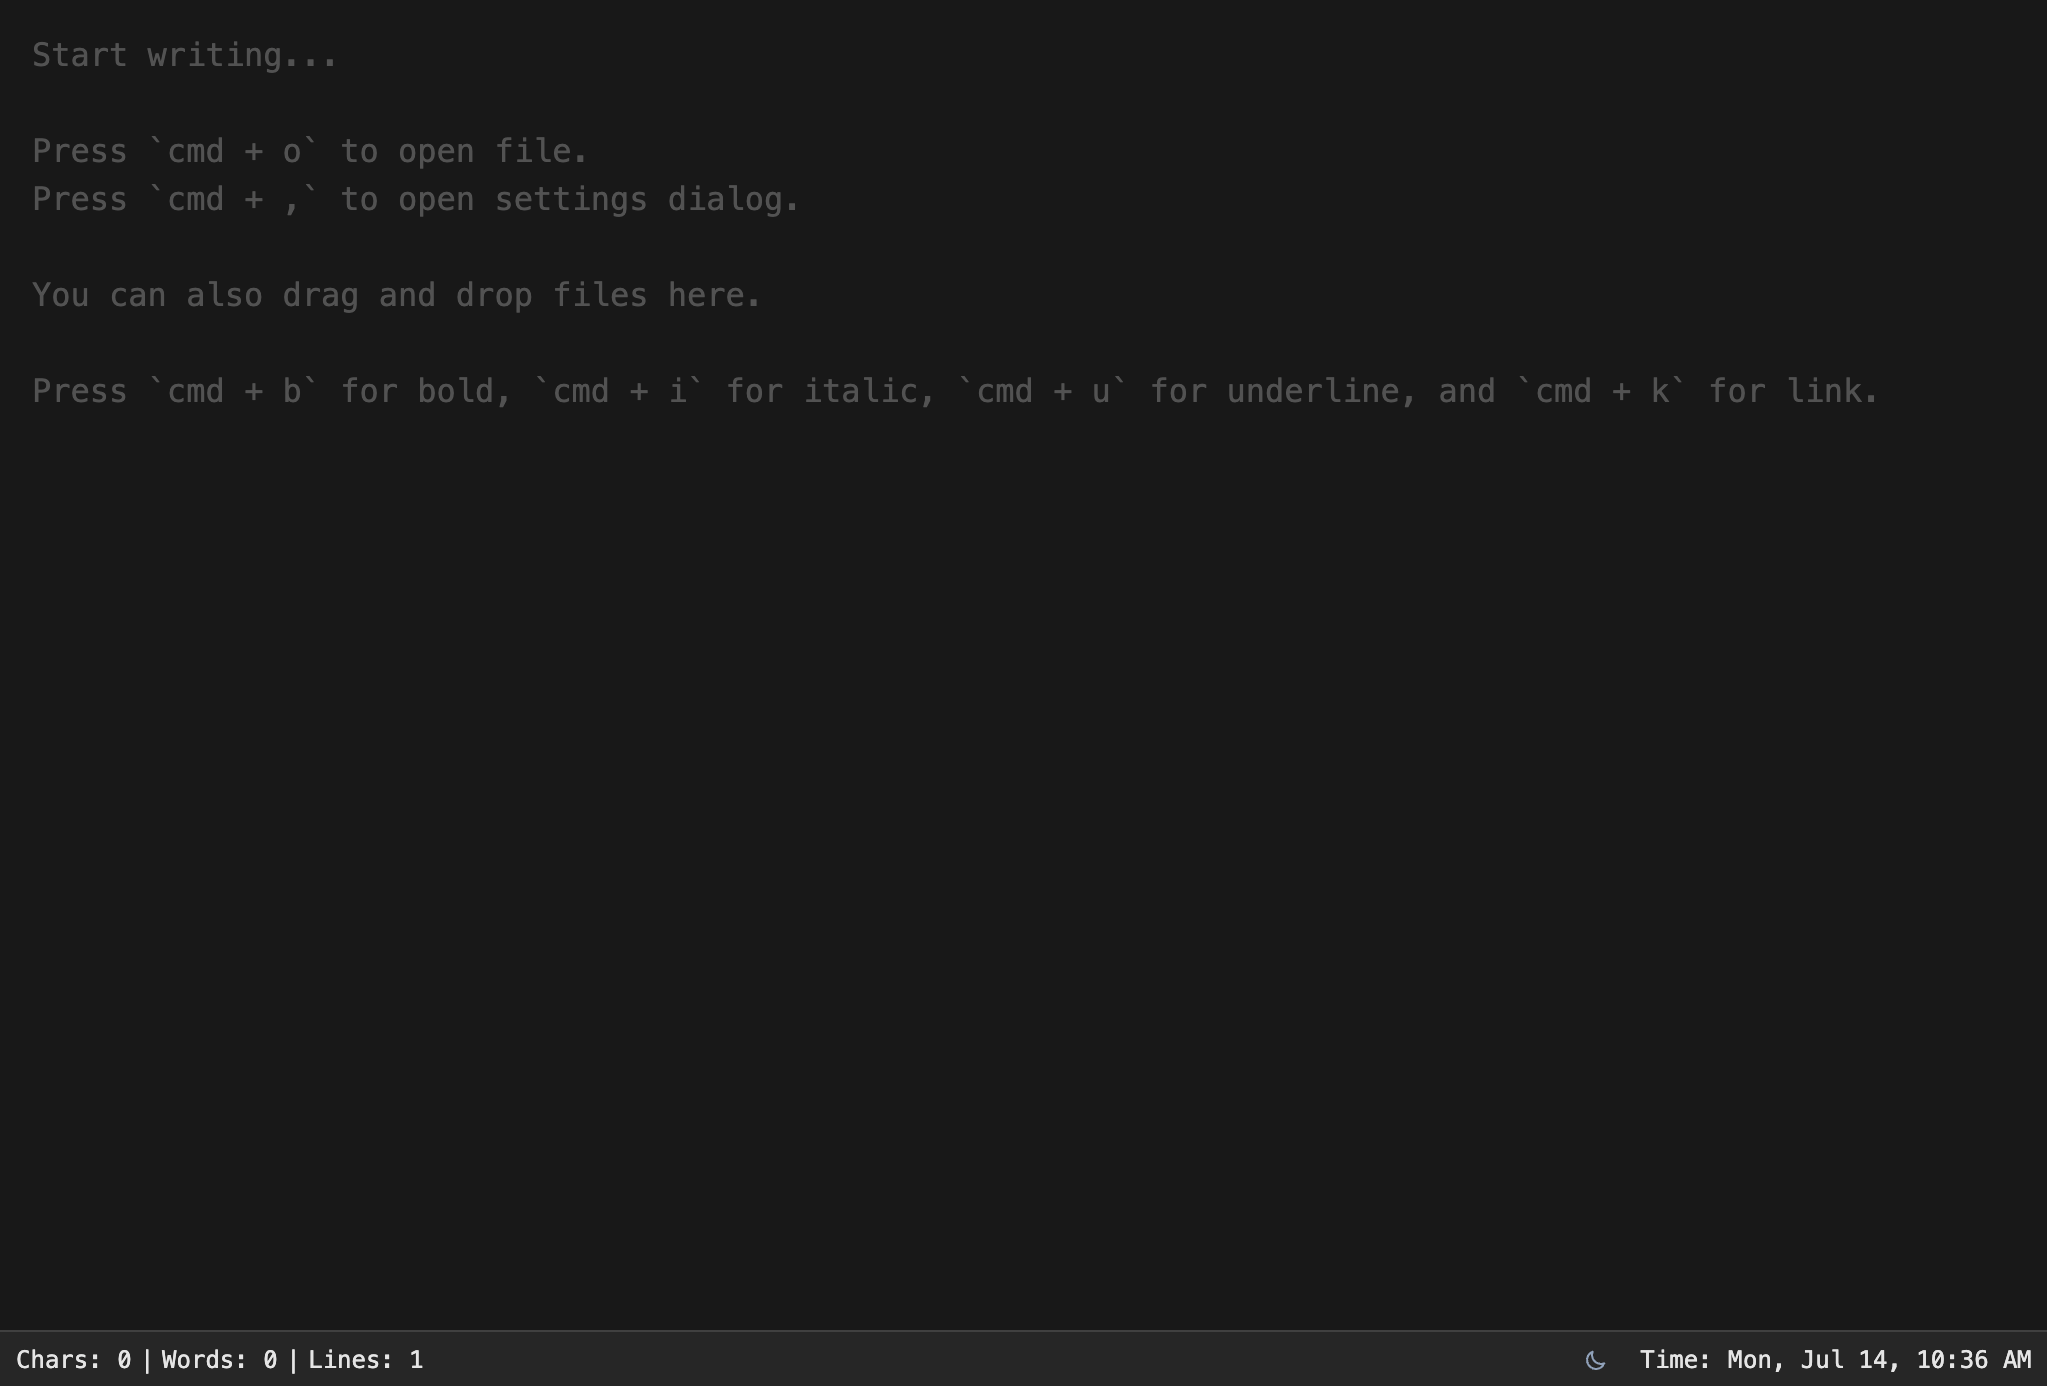
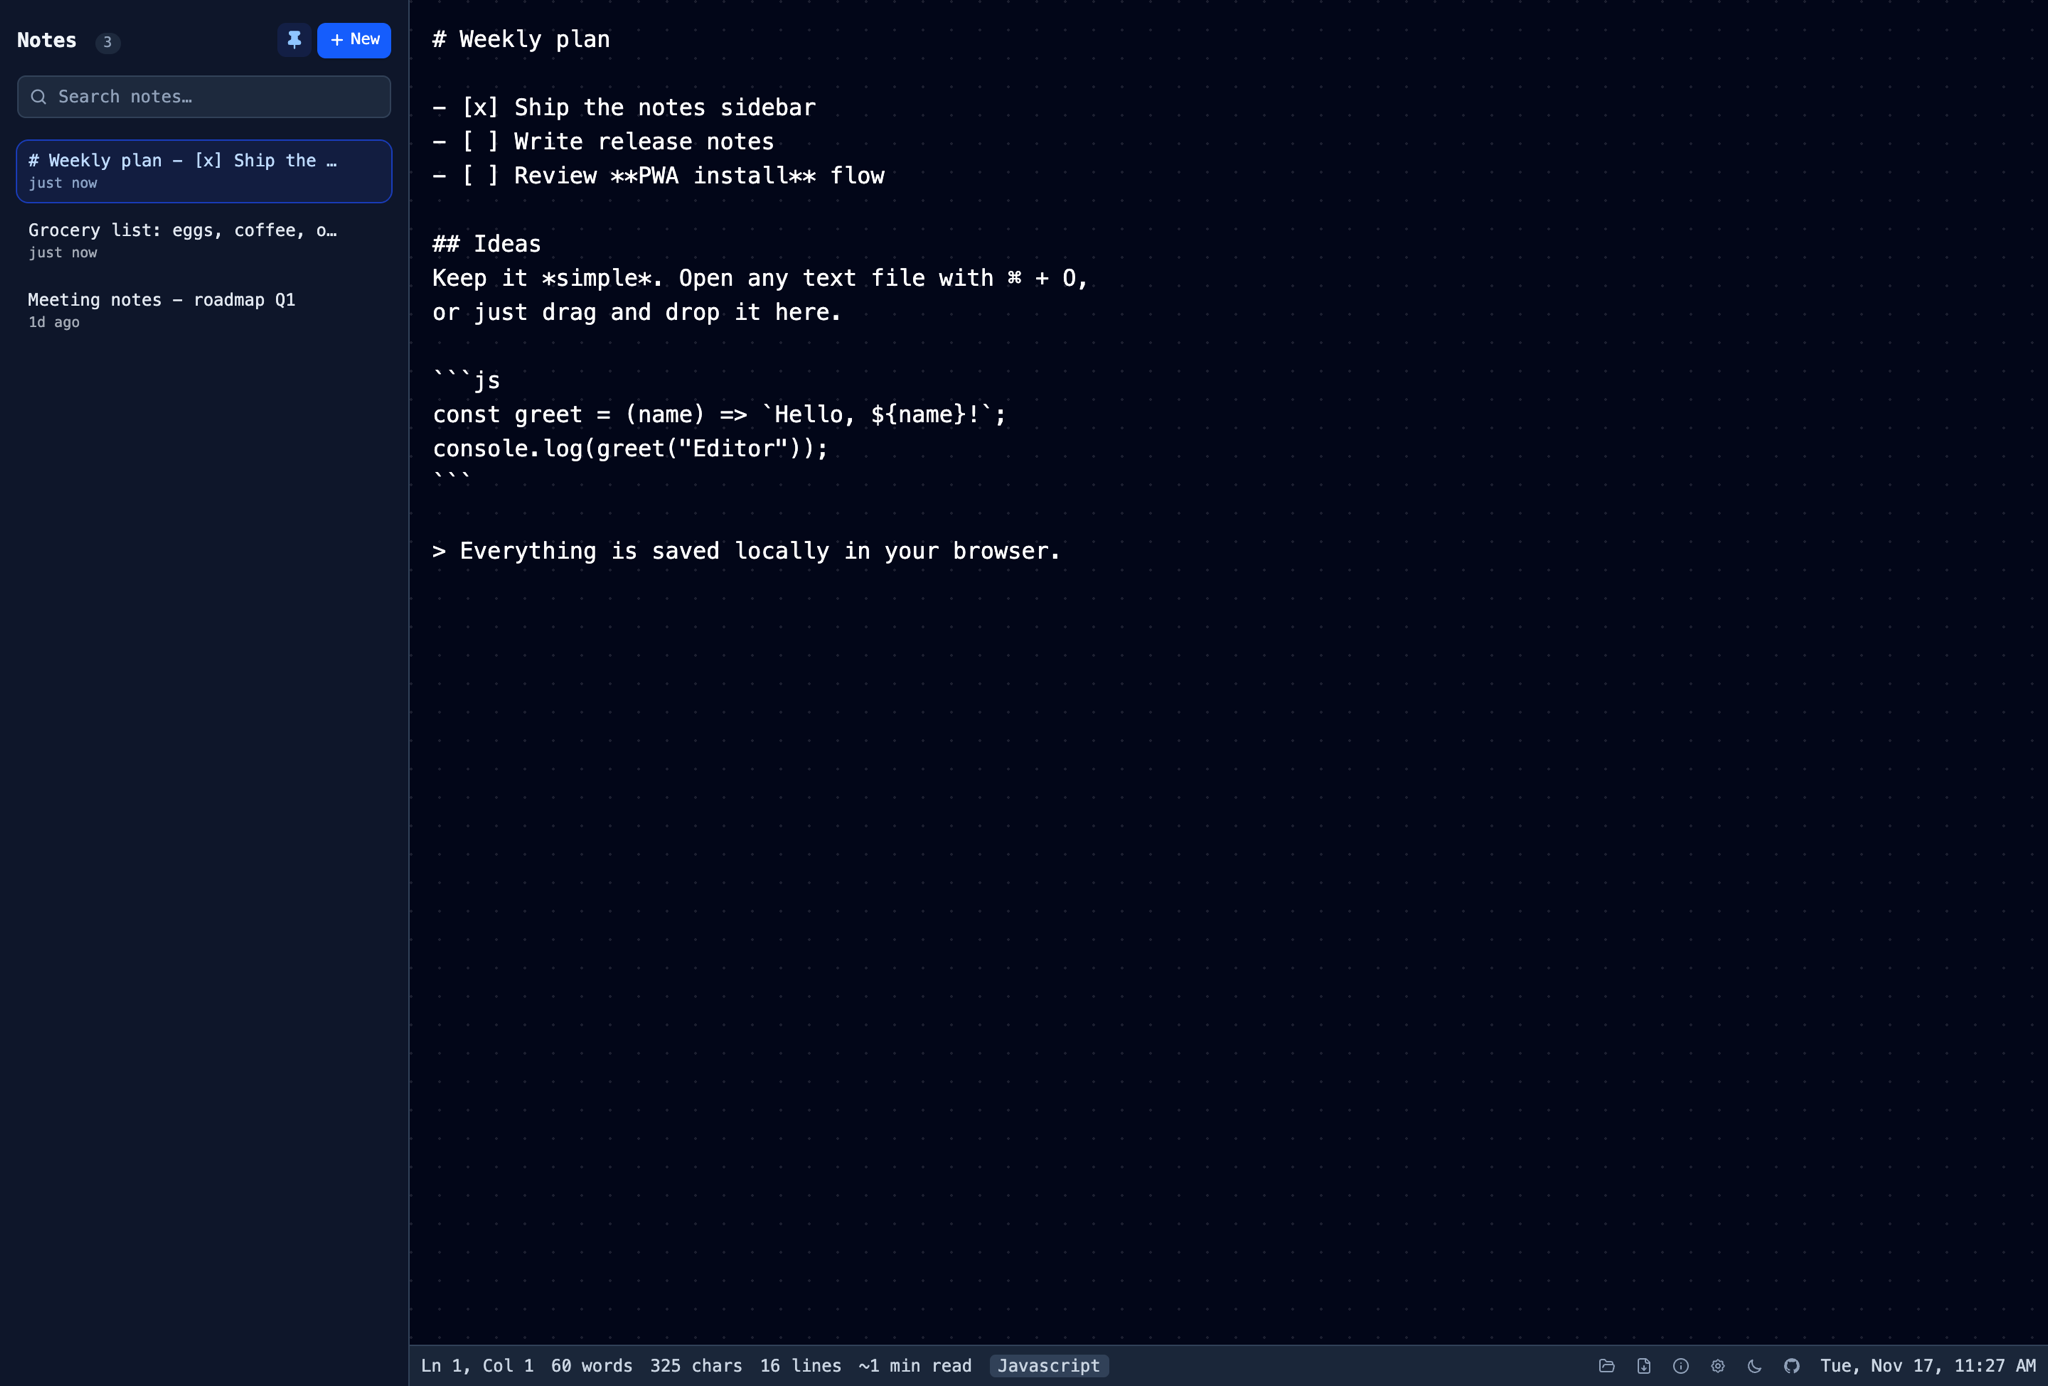
chore: update README and SEO metadata; enhance PWA support and file handling

diff --git a/index.html b/index.html
@@ -4,18 +4,22 @@
         <meta charset="UTF-8" />
         <link rel="icon" type="image/svg+xml" href="/icon.svg" />
         <meta name="viewport" content="width=device-width, initial-scale=1.0" />
-        <title>Editor</title>
-        <!-- SEO tags -->
-        <meta name="description" content="A simple text editor to edit quickly on the web..." />
+        <title>Editor – Fast, Distraction-Free Text Editor in Your Browser</title>
+
+        <!-- Primary SEO -->
+        <meta
+            name="description"
+            content="A fast, distraction-free text editor in your browser. Keep multiple notes, open or drag & drop text files, use keyboard shortcuts, and work offline. Free, no sign-up, saved locally."
+        />
         <meta
             name="keywords"
-            content="editor, text editor, web editor, simple editor, online text editor, notepad, markdown editor"
+            content="online text editor, notepad online, browser notepad, markdown editor, plain text editor, offline notes, PWA text editor, distraction-free writing, code snippet editor"
         />
         <meta name="author" content="Saiful Alam Rakib" />
-        <meta name="robots" content="index, follow" />
-        <meta name="language" content="en" />
-        <meta name="theme-color" content="#ffffff" />
-        <meta name="theme-color" content="#0f172a" media="(prefers-color-scheme: dark)" />
+        <meta name="robots" content="index, follow, max-image-preview:large" />
+        <meta name="theme-color" content="#f1f5f9" media="(prefers-color-scheme: light)" />
+        <meta name="theme-color" content="#020617" media="(prefers-color-scheme: dark)" />
+        <link rel="canonical" href="https://text.msar.me/" />
 
         <!-- PWA Meta Tags -->
         <meta name="mobile-web-app-capable" content="yes" />
@@ -28,20 +32,47 @@
 
         <!-- Open Graph / Facebook -->
         <meta property="og:type" content="website" />
-        <meta property="og:title" content="Editor - Simple Web Text Editor" />
-        <meta property="og:description" content="A simple text editor to edit quickly on the web..." />
-        <meta property="og:url" content="https://text.msar.me" />
-        <meta property="og:image" content="https://text.msar.me/light.png" />
         <meta property="og:site_name" content="Editor" />
+        <meta property="og:locale" content="en_US" />
+        <meta property="og:url" content="https://text.msar.me/" />
+        <meta property="og:title" content="Editor – Fast, Distraction-Free Text Editor in Your Browser" />
+        <meta
+            property="og:description"
+            content="Keep notes, open or drag & drop text files, and write offline. Free, no sign-up, everything saved locally."
+        />
+        <meta property="og:image" content="https://text.msar.me/og-image.png" />
+        <meta property="og:image:type" content="image/png" />
+        <meta property="og:image:width" content="1200" />
+        <meta property="og:image:height" content="630" />
+        <meta property="og:image:alt" content="Editor – a simple text editor shown in light and dark themes" />
 
         <!-- Twitter -->
         <meta name="twitter:card" content="summary_large_image" />
-        <meta name="twitter:title" content="Editor - Simple Web Text Editor" />
-        <meta name="twitter:description" content="A simple text editor to edit quickly on the web..." />
-        <meta name="twitter:image" content="https://text.msar.me/light.png" />
+        <meta name="twitter:title" content="Editor – Fast, Distraction-Free Text Editor in Your Browser" />
+        <meta
+            name="twitter:description"
+            content="Keep notes, open or drag & drop text files, and write offline. Free, no sign-up, everything saved locally."
+        />
+        <meta name="twitter:image" content="https://text.msar.me/og-image.png" />
+        <meta name="twitter:image:alt" content="Editor – a simple text editor shown in light and dark themes" />
 
-        <!-- Additional SEO -->
-        <link rel="canonical" href="https://text.msar.me" />
+        <!-- Structured data -->
+        <script type="application/ld+json">
+            {
+                "@context": "https://schema.org",
+                "@type": "WebApplication",
+                "name": "Editor",
+                "url": "https://text.msar.me/",
+                "description": "A fast, distraction-free text editor in your browser with notes, file drag & drop, keyboard shortcuts and offline support.",
+                "applicationCategory": "UtilitiesApplication",
+                "operatingSystem": "Any",
+                "browserRequirements": "Requires JavaScript",
+                "image": "https://text.msar.me/og-image.png",
+                "screenshot": ["https://text.msar.me/light.png", "https://text.msar.me/dark.png"],
+                "offers": { "@type": "Offer", "price": "0", "priceCurrency": "USD" },
+                "author": { "@type": "Person", "name": "Saiful Alam Rakib", "url": "https://github.com/4msar" }
+            }
+        </script>
 
         <!-- PWA Icons -->
         <link rel="apple-touch-icon" href="/icon.svg" sizes="180x180" />

diff --git a/vite.config.ts b/vite.config.ts
@@ -10,11 +10,11 @@ export default defineConfig({
         tailwindcss(),
         VitePWA({
             registerType: "prompt",
-            includeAssets: ["icon.svg", "dark.png", "light.png", "browserconfig.xml"],
+            includeAssets: ["icon.svg", "dark.png", "light.png", "og-image.png", "browserconfig.xml"],
             manifest: {
                 name: "Editor - Simple Web Text Editor",
                 short_name: "Editor",
-                description: "A simple text editor to edit quickly on the web",
+                description: "A fast, distraction-free text editor in your browser with notes, file drag & drop, shortcuts and offline support.",
                 theme_color: "#ffffff",
                 background_color: "#ffffff",
                 display: "standalone",
@@ -49,14 +49,14 @@ export default defineConfig({
                 screenshots: [
                     {
                         src: "light.png",
-                        sizes: "2047x1386",
+                        sizes: "2048x1386",
                         type: "image/png",
                         form_factor: "wide",
                         label: "Light theme",
                     },
                     {
                         src: "dark.png",
-                        sizes: "2047x1386",
+                        sizes: "2048x1386",
                         type: "image/png",
                         form_factor: "wide",
                         label: "Dark theme",

diff --git a/src/components/Editor.vue b/src/components/Editor.vue
@@ -1,10 +1,8 @@
 <script setup lang="ts">
 import { computed, ref, watch } from "vue";
 import { AnimatePresence, motion, useAnimate } from "motion-v";
-import { detectLanguage, getLanguageClass } from "../lib/language-detection";
 import { handleEditorKeydown } from "../lib/editor-commands";
 import { useSettings } from "../lib/use-settings";
-import { cn } from "../lib/utils";
 import { placeholderTexts } from "../lib/data";
 import Logo from "./Logo.vue";
 
@@ -23,7 +21,6 @@ const inputRef = ref<HTMLTextAreaElement | null>(null);
 const settings = useSettings();
 const [scope, animate] = useAnimate();
 
-const languageClass = computed(() => getLanguageClass(detectLanguage(value.value) ?? "plaintext"));
 const isBox = computed(() => settings.value.ui === "box");
 
 const emitCursor = () => {
@@ -85,7 +82,6 @@ defineExpose({ focus: () => inputRef.value?.focus() });
                 spellcheck="true"
                 aria-label="Editor"
                 class="editor bg-editor size-full resize-none p-4 pb-9 font-mono text-base text-black caret-blue-600 outline-none selection:bg-blue-500/25 placeholder:text-slate-400 dark:text-white dark:caret-blue-400 dark:placeholder:text-slate-600"
-                :class="cn(languageClass)"
                 :placeholder="placeholderTexts.join('\n')"
                 :style="{ fontSize: `${settings.fontSize}px`, tabSize: 4 }"
                 @keydown="handleEditorKeydown"

diff --git a/src/components/PWAInstall.vue b/src/components/PWAInstall.vue
@@ -28,8 +28,10 @@ const checkIfInstalled = () => {
     }
 };
 
+// Don't call e.preventDefault(): it only suppresses the mobile mini-infobar
+// (our button is desktop-only) and triggers a Chrome "Banner not shown" warning.
+// The saved event can still be prompted later from the install button.
 const handleBeforeInstallPrompt = (e: Event) => {
-    e.preventDefault();
     deferredPrompt.value = e;
     isInstallable.value = true;
 };
@@ -53,12 +55,16 @@ onUnmounted(() => {
 });
 
 const installPWA = async () => {
-    if (deferredPrompt.value) {
-        (deferredPrompt.value as any).prompt();
+    if (!deferredPrompt.value) return;
+    try {
+        await (deferredPrompt.value as any).prompt();
         const { outcome } = await (deferredPrompt.value as any).userChoice;
         if (outcome === 'accepted') {
             toast.success('Installing app…');
         }
+    } catch {
+        // Prompt already used (e.g. via the browser's own install UI)
+    } finally {
         deferredPrompt.value = null;
         isInstallable.value = false;
     }

diff --git a/README.md b/README.md
@@ -1,25 +1,28 @@
 # Text Editor
 
-A clean, simple, and powerful web-based text editor built with Vue 3, TypeScript, and Tailwind CSS. Perfect for quick note-taking, writing, and editing various file formats directly in your browser.
+A fast, distraction-free text editor that runs in your browser. Keep multiple notes, open or drag & drop text files, and keep writing offline – free, no sign-up, and everything stays on your device. Built with Vue 3, TypeScript and Tailwind CSS.
+
+![Editor – light and dark themes](./public/og-image.png)
 
 ## ✨ Features
 
-- **📝 Rich Text Editing**: Clean, distraction-free writing experience with a monospace font
-- **🌓 Dark/Light Mode**: Toggle between themes or use system default
-- **📊 Real-time Stats**: Live character, word, and line counting
-- **📁 File Support**: Drag & drop files or open with keyboard shortcuts
-- **⌨ Keyboard Shortcuts**: Efficient text formatting and file operations
-- **🎨 Syntax Detection**: Automatic language detection for code highlighting
-- **💾 Auto-save**: Content automatically persists in local storage
-- **⚙ Customizable**: Adjustable font size and theme preferences
-- **📱 Responsive**: Works great on desktop and mobile devices
+- **📝 Distraction-free writing** – a clean, full-screen monospace editor that opens instantly
+- **🗂 Multiple notes** – a searchable notes sidebar (pin it open or toggle it), keeping up to 50 recent notes
+- **💾 Auto-save** – every note is saved in your browser's local storage; nothing leaves your device
+- **📁 Open any text file** – browse with a shortcut or drag & drop a file onto the editor, and download a note back as a file
+- **⌨ Keyboard shortcuts** – formatting, case changes, indent/outdent and note management without touching the mouse
+- **📊 Live status bar** – cursor position, words, characters, lines, reading time and the detected language of code blocks
+- **🌓 Light, dark and system themes** – with a smooth reveal animation when you switch
+- **⚙ Customizable** – font size, layout (Auto, Box or Full width), logo visibility and new-note behavior
+- **📱 Installable PWA** – install it like a desktop/mobile app and keep writing offline
 
 ## 🚀 Demo
 
 **Live Demo**: [https://text.msar.me](https://text.msar.me)
 
-![Light Mode Demo](./public/light.png)
-![Dark Mode Demo](./public/dark.png)
+| Light | Dark |
+| --- | --- |
+| ![Light theme](./public/light.png) | ![Dark theme](./public/dark.png) |
 
 ## 🔧 Installation
 
@@ -47,36 +50,47 @@ yarn dev
 
 ## 📖 Usage
 
-### Basic Editing
-- Start typing in the main text area
-- Your content is automatically saved to local storage
-- Use the status bar to monitor character, word, and line counts
+### Notes
+- Start typing – your note is saved automatically
+- Press `Alt+N` (`⌥N` on Mac) to start a new note and `Alt+L` (`⌥L`) to show or hide the notes list
+- Search notes from the sidebar, or pin the sidebar to keep it open
 
-### File Operations
-- **Open File**: Press `Ctrl+O` (or `Cmd+O` on Mac) to browse and open a file
-- **Drag & Drop**: Simply drag a file from your computer into the editor
-- **Supported Formats**: Text files, Markdown, JSON, JavaScript, TypeScript, HTML, CSS, Vue, and many more
+### Files
+- **Open a file**: `Ctrl+O` / `⌘O`, or drag & drop a file onto the editor (up to 4 MB)
+- **Download a note**: `Ctrl+S` / `⌘S`
+- **Supported formats**: plain text, Markdown, JSON, YAML, source code and many more (see below)
 
 ### Keyboard Shortcuts
-- `Ctrl+O` / `Cmd+O` - Open file
-- `Ctrl+,` / `Cmd+,` - Open settings
-- `Ctrl+B` / `Cmd+B` - Bold text
-- `Ctrl+I` / `Cmd+I` - Italic text
-- `Ctrl+U` / `Cmd+U` - Underline text
-- `Ctrl+K` / `Cmd+K` - Insert link
+
+| Action | Windows / Linux | macOS |
+| --- | --- | --- |
+| Open file | `Ctrl+O` | `⌘O` |
+| Download note | `Ctrl+S` | `⌘S` |
+| Settings | `Ctrl+,` | `⌘,` |
+| Help (all shortcuts) | `Ctrl+/` | `⌘/` |
+| Close dialog / panel | `Esc` | `Esc` |
+| New note | `Alt+N` | `⌥N` |
+| Toggle notes list | `Alt+L` | `⌥L` |
+| Bold / Italic / Underline | `Ctrl+B` / `Ctrl+I` / `Ctrl+U` | `⌘B` / `⌘I` / `⌘U` |
+| Insert link | `Ctrl+K` | `⌘K` |
+| Lowercase / Uppercase selection | `Ctrl+Shift+L` / `Ctrl+Shift+U` | `⌘⇧L` / `⌘⇧U` |
+| Indent / Outdent | `Tab` / `Shift+Tab` | `Tab` / `⇧Tab` |
 
 ### Settings
-Press `Ctrl+,` (or `Cmd+,` on Mac) to access settings:
-- **Theme**: Choose between Light, Dark, or System Default
-- **Font Size**: Adjust the editor font size for comfortable reading
+Press `Ctrl+,` (`⌘,` on Mac) to open settings:
+- **Theme** – Light, Dark or System
+- **Layout** – Auto, Box or Full width
+- **Show logo** – show or hide the logo in Box layout
+- **New note behavior** – reopen the last note or start fresh
+- **Font size** – make the editor text larger or smaller
 
 ## 🎯 Supported File Types
 
 The editor supports a wide range of file formats including:
 
-**Text & Documentation**: `.txt`, `.md`, `.csv`, `.log`  
+**Text & Documentation**: `.txt`, `.md`, `.csv`, `.log`, `.tex`  
 **Web Technologies**: `.html`, `.css`, `.scss`, `.sass`, `.less`, `.js`, `.ts`, `.jsx`, `.tsx`, `.vue`  
-**Programming Languages**: `.py`, `.java`, `.cpp`, `.c`, `.h`, `.php`, `.rb`, `.go`, `.rs`, `.swift`, `.kt`  
+**Programming Languages**: `.py`, `.java`, `.cpp`, `.c`, `.h`, `.php`, `.rb`, `.go`, `.rs`, `.swift`, `.kt`, `.dart`, `.lua`, `.sh`, `.sql`  
 **Data & Config**: `.json`, `.xml`, `.yaml`, `.yml`, `.ini`, `.cfg`, `.conf`, `.env`, `.toml`  
 **And many more...**
 
@@ -99,9 +113,11 @@ yarn preview
 ### Tech Stack
 - **Framework**: Vue 3 with Composition API
 - **Language**: TypeScript
-- **Styling**: Tailwind CSS
+- **Styling**: Tailwind CSS v4
 - **Build Tool**: Vite
 - **State Management**: VueUse (for localStorage and utilities)
+- **Animation**: motion-v
+- **PWA**: vite-plugin-pwa
 
 ## 🤝 Contributing
 
